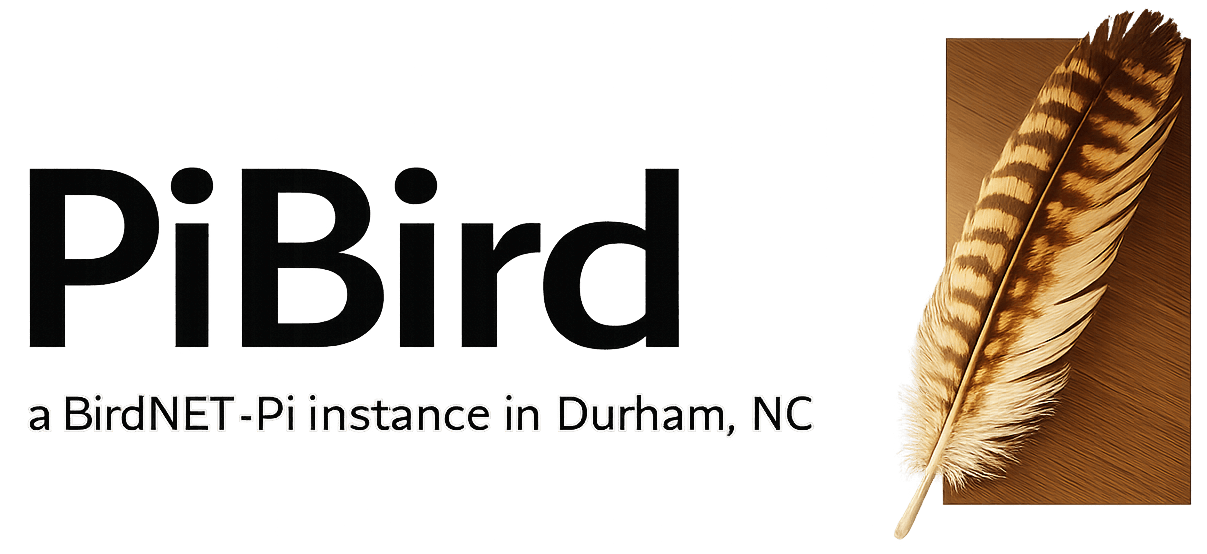
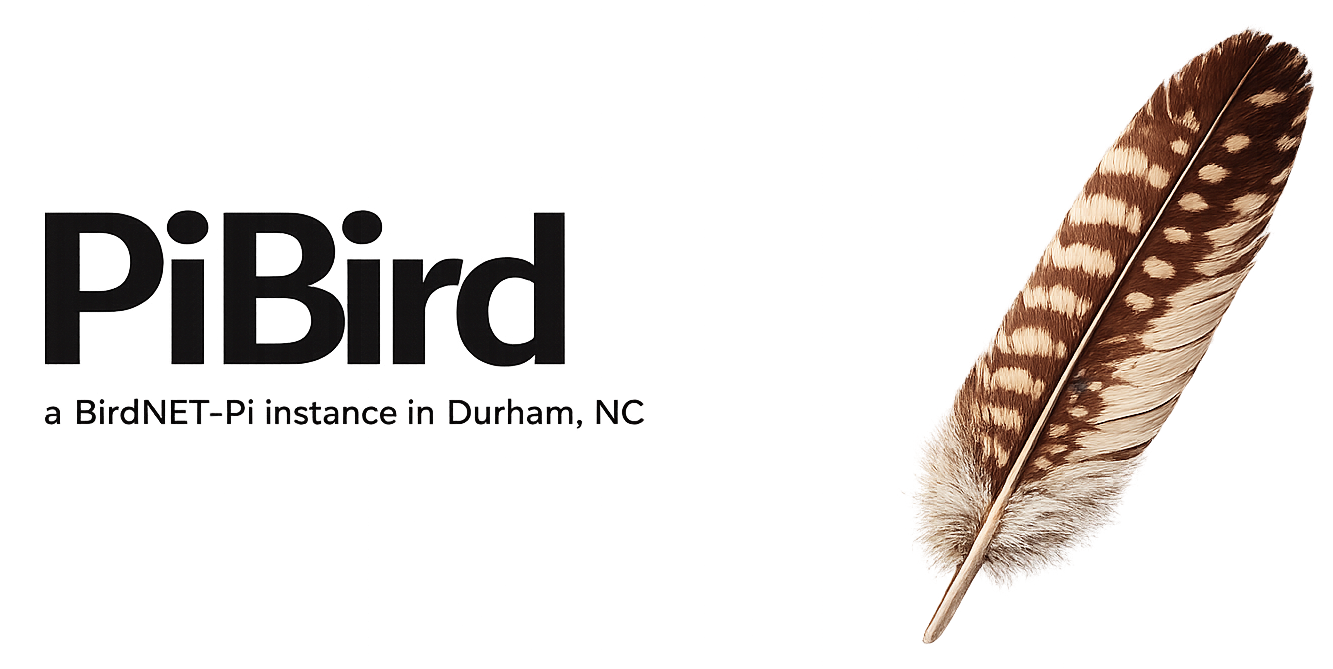
feat: new topimage and update readme

Changed region(s): [[0.0, 0.0, 1.0, 0.9819], [0.0, 0.2762, 0.5824, 0.6444]]

diff --git a/README.md b/README.md
@@ -1,22 +1,21 @@
-<h1 align="center"><a href="https://github.com/mcguirepr89/BirdNET-Pi/blob/main/LICENSE">Review the license!!</a></h1>
-<h1 align="center">You may not use BirdNET-Pi to develop a commercial product!!!!</h1>
-<h1 align="center">
-  BirdNET-Pi
-</h1>
+# BirdNET-Pi
+
+A realtime acoustic bird classification system for the Raspberry Pi 5, 4B, 400, 3B+, and 0W2.
+
 <p align="center">
-A realtime acoustic bird classification system for the Raspberry Pi 5, 4B, 400, 3B+, and 0W2
+  <img src="https://user-images.githubusercontent.com/60325264/140656397-bf76bad4-f110-467c-897d-992ff0f96476.png" alt="BirdNET-Pi" />
 </p>
 <p align="center">
-  <img src="https://user-images.githubusercontent.com/60325264/140656397-bf76bad4-f110-467c-897d-992ff0f96476.png" />
-</p>
-<p align="center">
-Icon made by <a href="https://www.freepik.com" title="Freepik">Freepik</a> from <a href="https://www.flaticon.com/" title="Flaticon">www.flaticon.com</a>
+  Icon by <a href="https://www.freepik.com" title="Freepik">Freepik</a> from <a href="https://www.flaticon.com/" title="Flaticon">www.flaticon.com</a>
 </p>
 
-## About this fork:
-I've been building on [mcguirepr89's](https://github.com/mcguirepr89/BirdNET-Pi) most excellent work to further update and improve BirdNET-Pi. Maybe someone will find it useful.
+## About this fork
 
-Changes include:
+This is a fork of [Nachtzuster/BirdNET-Pi](https://github.com/Nachtzuster/BirdNET-Pi), which in turn builds on [mcguirepr89/BirdNET-Pi](https://github.com/mcguirepr89/BirdNET-Pi). The same license and usage terms as the upstream repository apply.
+
+**Live instance:** A BirdNET-Pi instance is hosted at **[durm.pibirds.org](https://durm.pibirds.org)** (Durham, NC area).
+
+Changes in this fork include:
 
  - Backup & Restore
  - Web ui is much more responsive
@@ -31,7 +30,7 @@ Changes include:
  - Rework daily_plot.py (chart_viewer) to run as a daemon to avoid the very expensive startup
  - Lots of fixes & cleanups
 
-!! note: see 'Migrating' on how to migrate from mcguirepr89
+See the **Migrating** section below if you're coming from another BirdNET-Pi fork.
 
 ## Introduction
 BirdNET-Pi is built on the [BirdNET framework](https://github.com/kahst/BirdNET-Analyzer) by [**@kahst**](https://github.com/kahst) <a href="https://creativecommons.org/licenses/by-nc-sa/4.0/"><img src="https://img.shields.io/badge/License-CC%20BY--NC--SA%204.0-lightgrey.svg"></a> using [pre-built TFLite binaries](https://github.com/PINTO0309/TensorflowLite-bin) by [**@PINTO0309**](https://github.com/PINTO0309) . It is able to recognize bird sounds from a USB microphone or sound card in realtime and share its data with the rest of the world.
@@ -129,20 +128,23 @@ cpu-model: BirdNet
 /usr/local/bin/uninstall.sh && cd ~ && rm -drf BirdNET-Pi
 ```
 ## Migrating
-Before switching, make sure your installation is fully up-to-date. Also make sure to have a backup, that is also the only way to get back to the original BirdNET-Pi.
-Please note that upgrading your underlying OS to Bookworm is not going to work. Please stick to Bullseye. If you do want Bookworm, you need to start from a fresh install and copy back your data. (remember the backup!)
 
-Run these commands to migrate to this repo:
+Before switching remotes, ensure your installation is up to date and you have a backup. Upgrading the underlying OS (e.g. to Bookworm) may require a fresh install and data restore.
+
+To point an existing BirdNET-Pi install at this fork:
 ```
 git remote remove origin
-git remote add origin https://github.com/Nachtzuster/BirdNET-Pi.git
+git remote add origin https://github.com/cpieper/BirdNET-Pibird.git
+git fetch origin
+git branch -M main
+git reset --hard origin/main
 ./scripts/update_birdnet.sh
 ```
 ## Troubleshooting and Ideas
 *Hint: A lot of weird problems can be solved by simply restarting the core services. Do this from the web interface "Tools" > "Services" > "Restart Core Services"
 Having trouble or have an idea? *Submit an issue for trouble* and a *discussion for ideas*. Please do *not* submit an issue as a discussion -- the issue tracker solicits information that is needed for anyone to help -- discussions are *not for issues*.
 
-PLEASE search the repo for your issue before creating a new one. This repo has nothing to do with the validity of the detection results, so please do not start any issues around "False positives."
+Search the repo for your issue before opening a new one. This repo does not address the validity of detection results (e.g. false positives).
 
 ## Sharing
 Please join a Discussion!! and please join [BirdWeather!!](https://app.birdweather.com)
